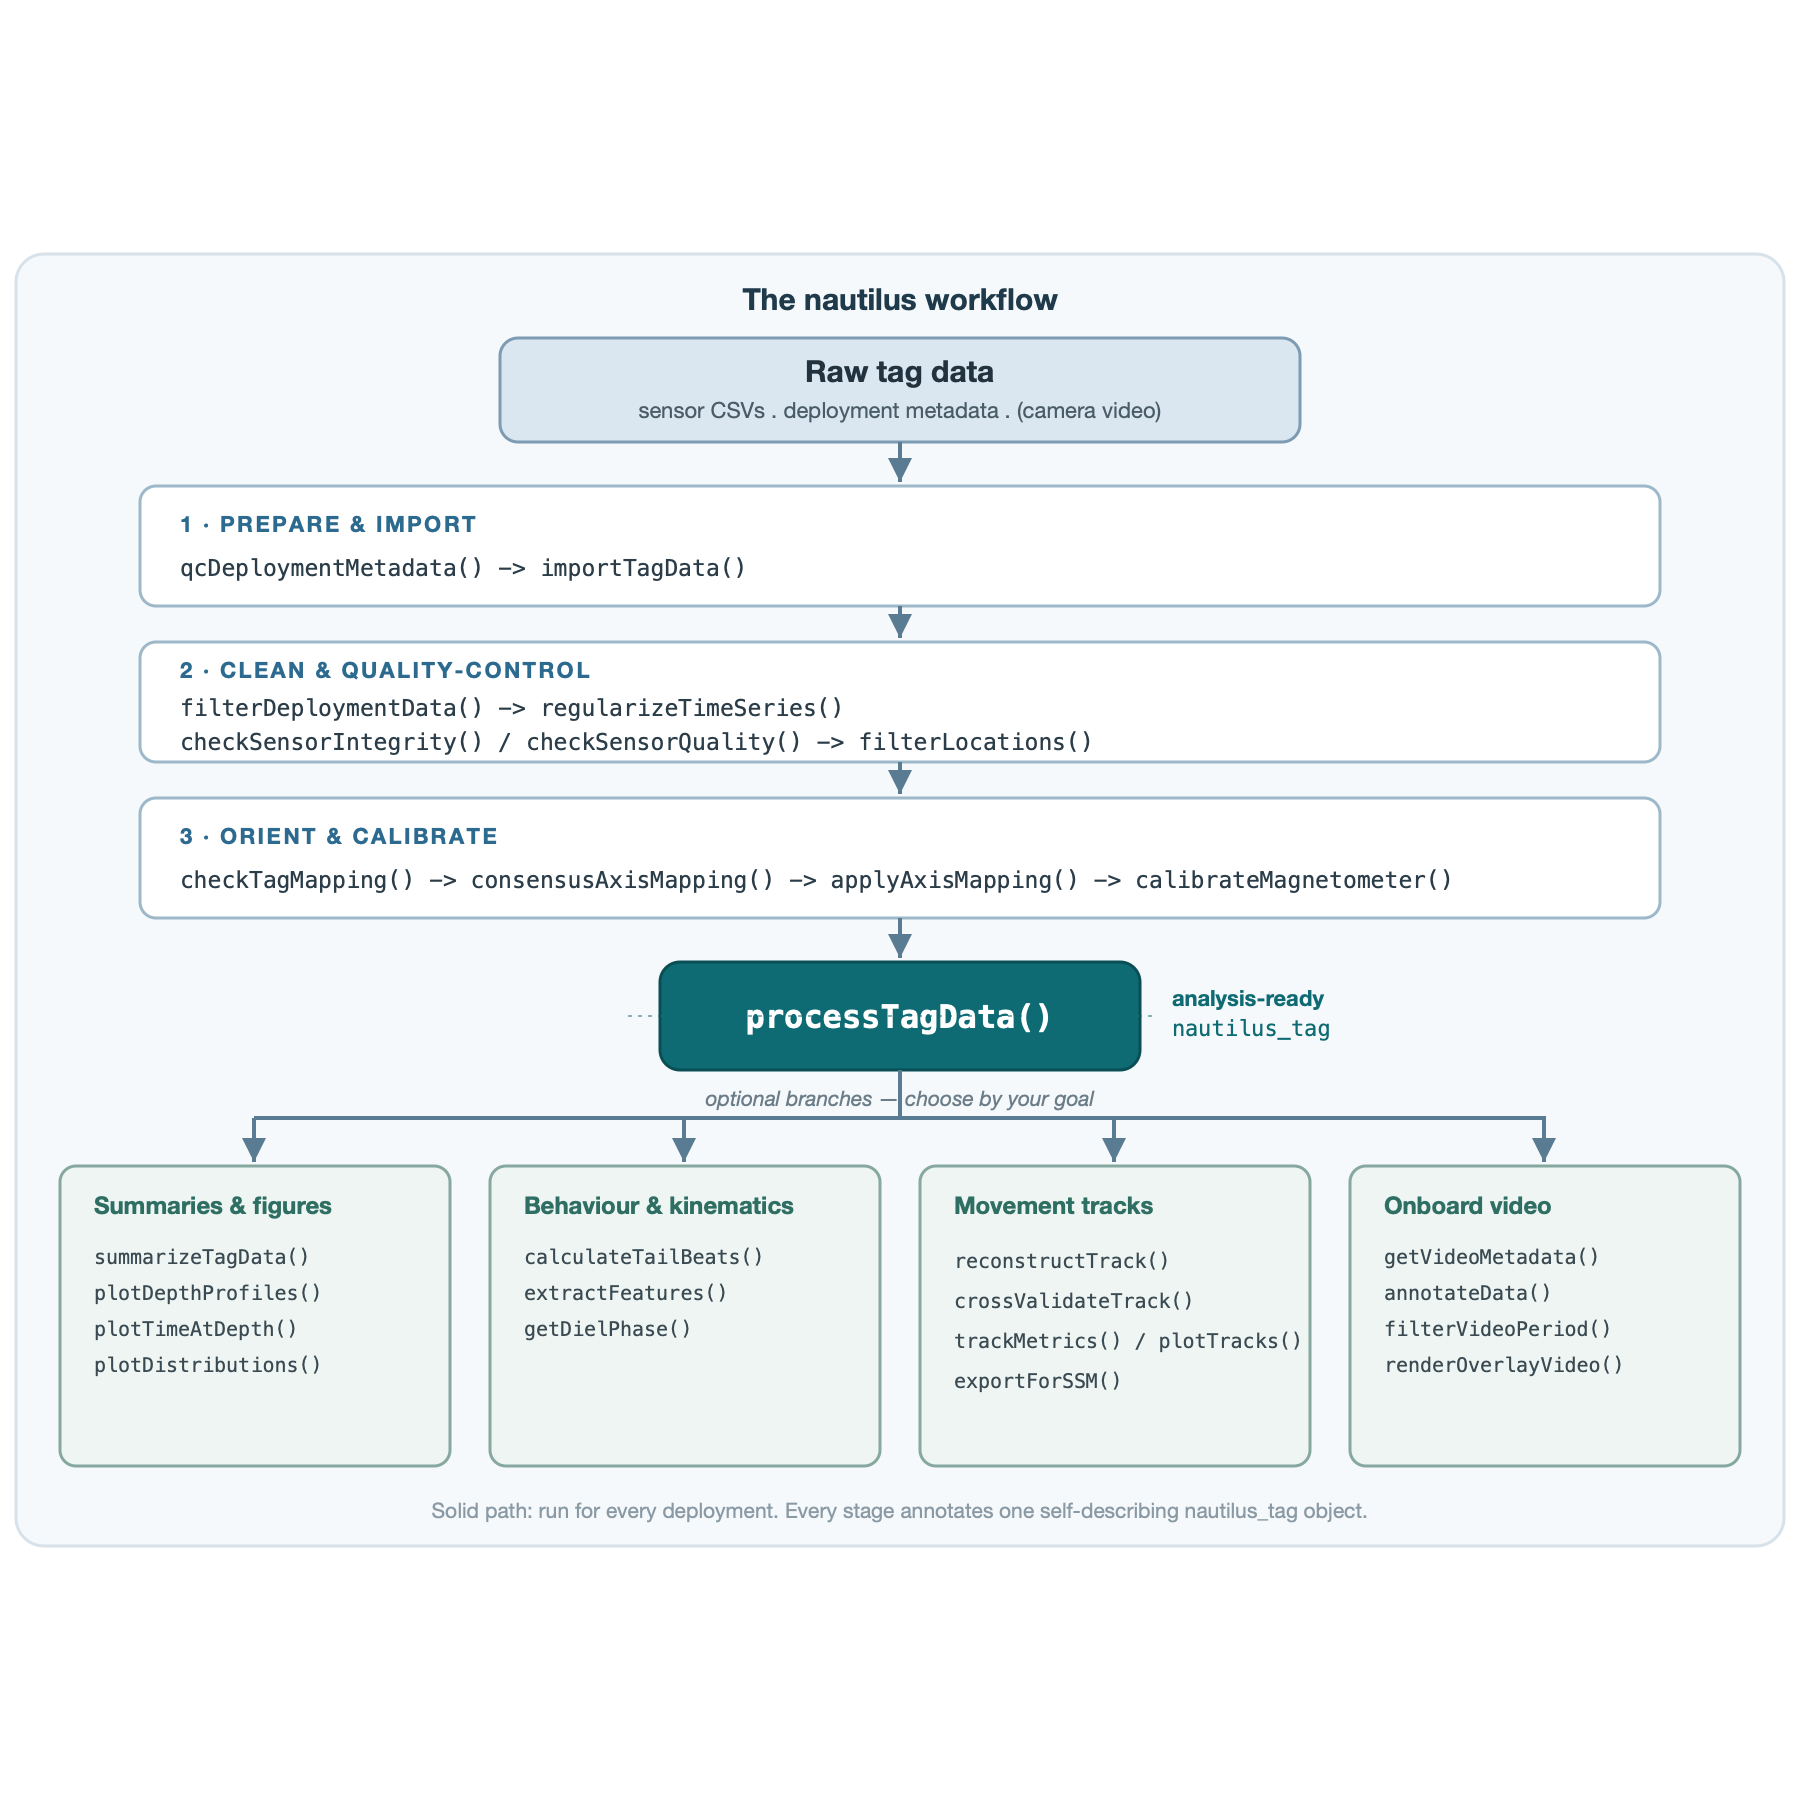
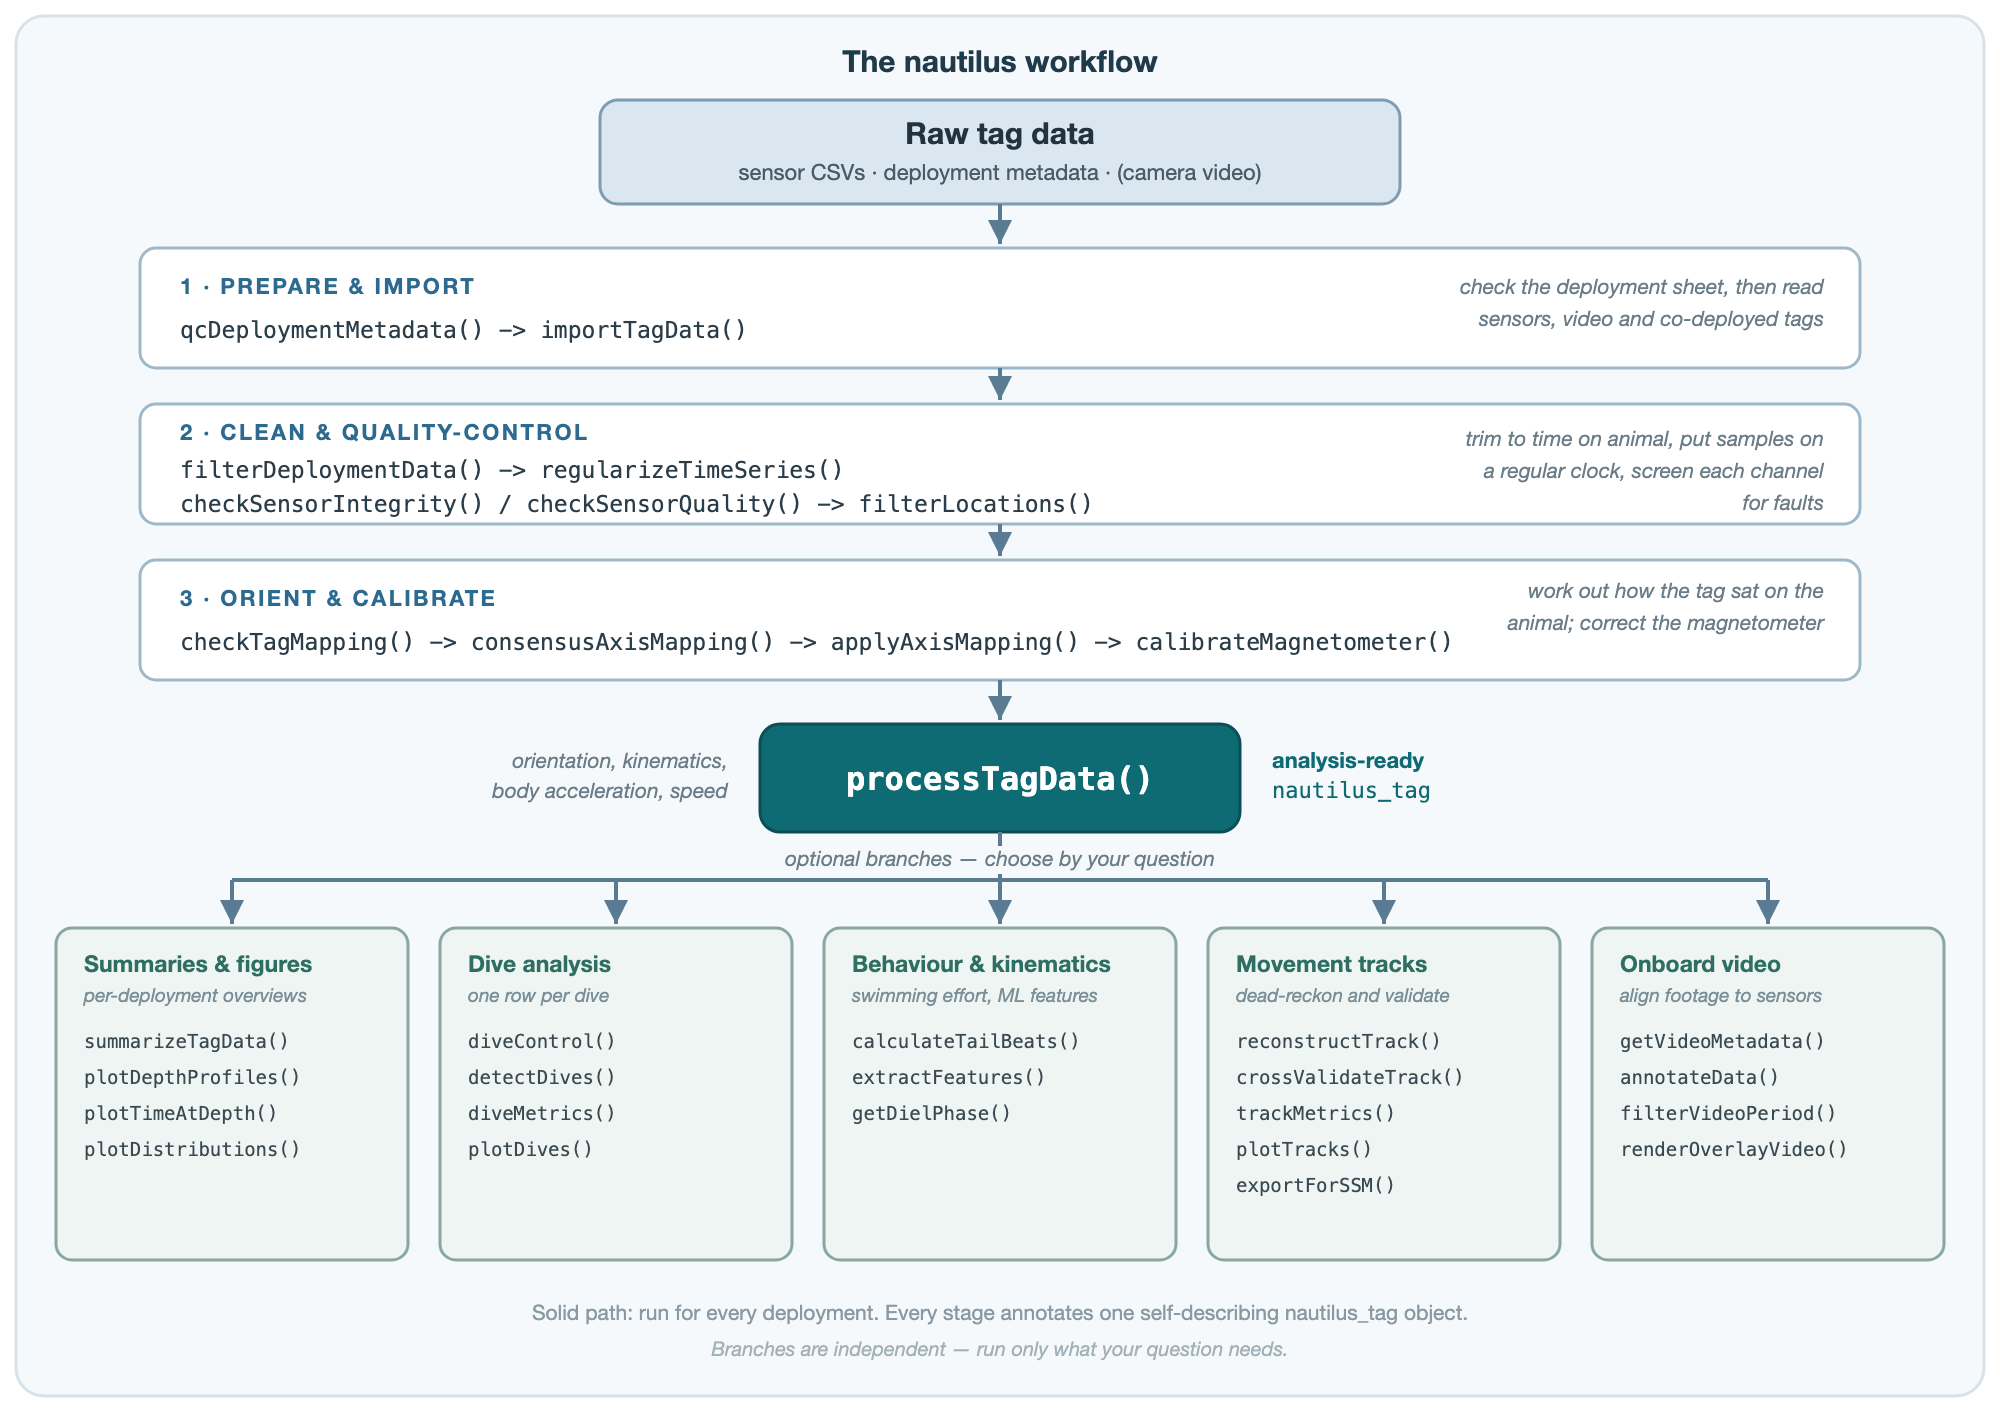
Prepare citation, authorship and the workflow schematic for the first public release
Citation. inst/CITATION now carries a single software entry and reads the version from
meta$Version at call time, with a packageVersion() fallback and an explicit textVersion so the
plain-text output matches the README wording. The README quotes no version at all, and says why:
citation("nautilus") is the single source of truth, and a number written into prose drifts the
moment DESCRIPTION moves. The PILOT-tag paper leaves the software citation and moves to a new
"Related publications" section, so citing the package no longer implies citing the tag system.

Authorship. Authors@R widens to Gandra (aut, cre), Saraiva, Macena, Afonso and Fontes (aut),
matching the citation metadata exactly. Only Gandra has an ORCID on file; the others can be added
when available.

Version stays at 0.1.0. The repository is pre-release and no public version has been cut, so
holding until the release milestone is right. Worth recording for when that milestone arrives:
this session alone removed colors/cex from three plotters, made sensor.resolution required,
redefined min.prominence while adding min.amplitude, and reversed plotDives()'s geometry. All
breaking. 1.0.0 is a promise that such changes then require a major bump, and the record should
support the promise before it is made.

Schematic. The figure grows from 900x662 to 1000x706 to carry the dive analysis branch as a fifth
peer - same fill, same border weight, same typography as the four that were already there. An
[…]

diff --git a/README.md b/README.md
@@ -157,17 +157,33 @@ which feed straight into the next. The Getting Started guide covers both styles.
 
 <br/>
 
-## Citing nautilus
+## Citing `nautilus`
 
-If nautilus contributes to your work, please cite both the software and the PILOT-tag
-reference:
+If you use nautilus in your research, please cite it as:
 
 ```r
 citation("nautilus")
 ```
 
+Until the accompanying methods paper is published, the recommended citation is:
+
+> Gandra, M., Saraiva, B. M., Macena, B. C. L., Afonso, P., &amp; Fontes, J. (2026).
+> nautilus: An R package for biologging data processing and analysis. GitHub.
+> <https://github.com/miguelgandra/nautilus>
+
+No version is quoted above on purpose: `citation("nautilus")` reads it from the package you
+actually have installed, so that call is the single source of truth and cannot drift from this
+file. Please include the version it reports.
+
+<br/>
+
+## Related publications
+
+Work associated with the package, the tagging system it was built around, or the datasets it was
+developed on:
+
 > Fontes, J., Macena, B., Solleliet-Ferreira, S., Buyle, F., Magalh&atilde;es, R.,
-> Bartolomeu, T., Liebsch, N., Meyer, C. & Afonso, P. (2022). The advantages and challenges
+> Bartolomeu, T., Liebsch, N., Meyer, C. &amp; Afonso, P. (2022). The advantages and challenges
 > of non-invasive towed PILOT tags for free-ranging deep-diving megafauna. *Animal
 > Biotelemetry, 10*(1), 39. <https://doi.org/10.1186/s40317-022-00310-1>
 